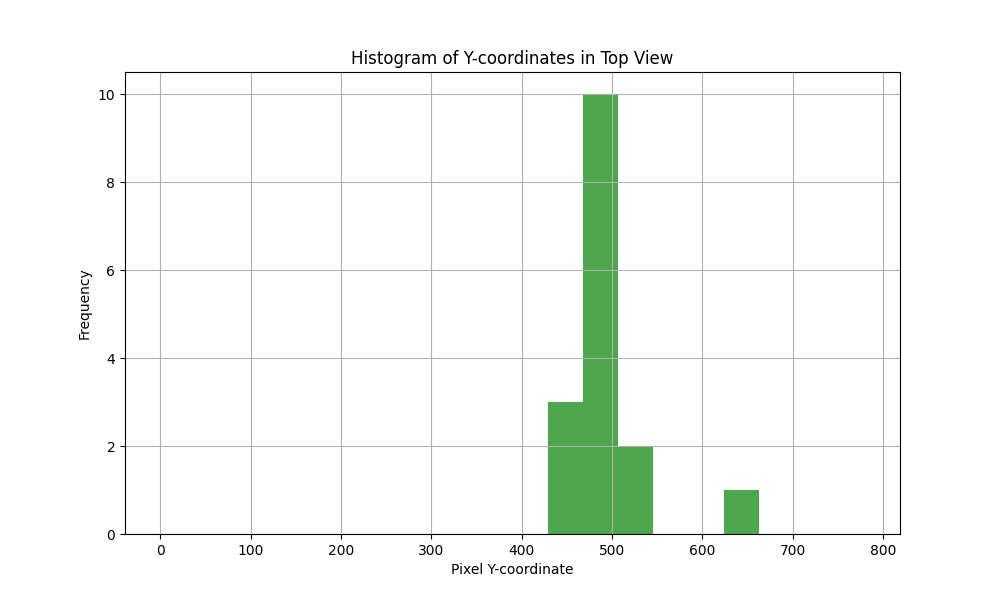
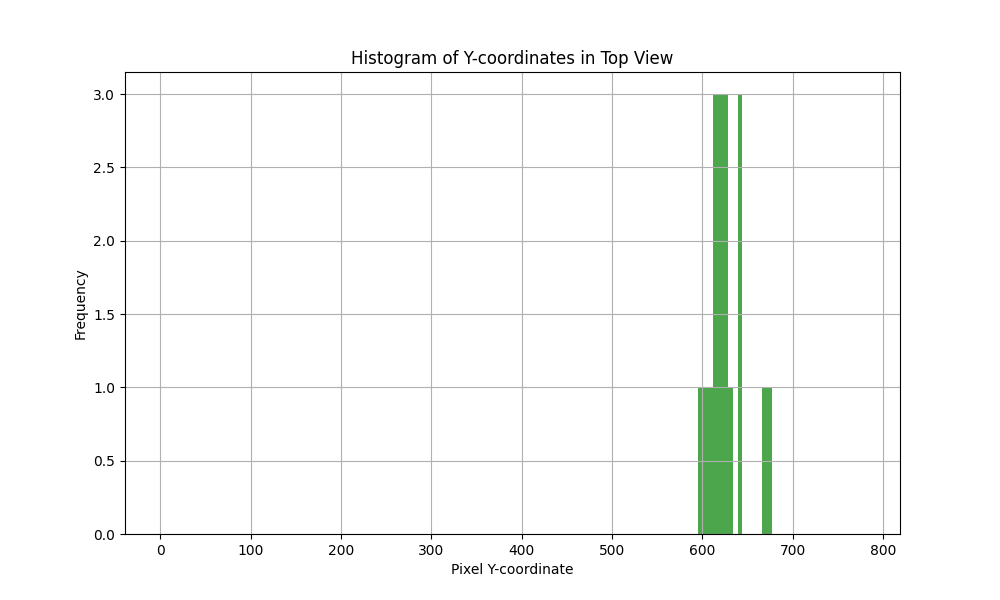
Temp commit 27_06_

diff --git a/src/charmie_storing_groceries/charmie_storing_groceries/storing_groceries_v0.py b/src/charmie_storing_groceries/charmie_storing_groceries/storing_groceries_v0.py
@@ -979,7 +979,7 @@ class StoringGroceriesMain():
 
             print("FILTERED:")
             for o in filtered_objects:
-                # self.node.detected_objects_publisher.publish(o)
+                self.node.detected_objects_publisher.publish(o)
                 # print('---',o)
                 print(o.index, o.object_name, "\t", round(o.position_absolute.x, 2), round(o.position_absolute.y, 2), round(o.position_absolute.z, 2))
 
@@ -1023,9 +1023,9 @@ class StoringGroceriesMain():
                 DETECTED_ALL_LIST_OF_OBJECTS = True
 
         self.set_neck(position=(0,0), wait_for_end_of=False)
-        self.set_speech(filename="generic/found_following_items")
-        for obj in final_objects:
-            self.set_speech(filename="objects_names/"+obj.object_name.replace(" ","_").lower(), wait_for_end_of=True)
+        # self.set_speech(filename="generic/found_following_items")
+        # for obj in final_objects:
+            # self.set_speech(filename="objects_names/"+obj.object_name.replace(" ","_").lower(), wait_for_end_of=True)
             
         return final_objects
 
@@ -1688,29 +1688,11 @@ class StoringGroceriesMain():
         # Real-world dimensions (in meters)
         min_width_meters = -3.0
         max_width_meters = 3.0
-        min_height_meters = -2.0
-        max_height_meters = 2.0
+        min_height_meters = -2.5
+        max_height_meters = 2.5
         min_height_meters_y = 5.0
         max_height_meters_y = 0.0
 
-        # Coordinates to plot (x, y, z)
-        """ coordinates = [
-            ("Banana", -0.24, 1.95, -0.96),
-            ("Cheezit", -0.81, 0.93, -0.66),
-            ("Sugar", 0.29, 1.88, -0.53),
-            ("Strawberry Jello", 0.14, 1.96, -0.52),
-            ("7Up", 0.39, 1.78, 0.35),
-            ("Orange", -0.26, 2.15, -1.0),
-            ("Tomato Soup", 0.39, 1.74, 0.38),
-            ("Pringles", -0.4, 1.92, -0.03),
-            ("Cornflakes", -0.23, 1.91, -0.07),
-            ("Mustard", 0.96, 1.69, -0.32),
-            ("Cheezit", 1.64, 1.84, -0.3),
-            ("Red Wine", 0.19, 1.81, 0.45),
-            ("Tropical Juice", 0.11, 2.02, 0.41),
-            ("Spam", -0.41, 1.94, -0.02)
-        ] """
-        
         coordinates = data
 
         # Function to convert real-world coordinates to image coordinates
@@ -1730,7 +1712,7 @@ class StoringGroceriesMain():
             
             img_x = center_x + (img_x - center_x)
             img_y = center_y - (img_y - center_y)
-            img_z = center_y - (img_z - center_y)
+            img_z = center_y + (img_z - center_y)
             cv2.circle(image, (img_x, img_z), 5, (255, 255, 255), -1)  # Draw white points
             cv2.putText(image, name, (img_x + 5, img_z - 5), cv2.FONT_HERSHEY_SIMPLEX, 0.5, (255, 255, 255), 1)
             y_coordinates_front_view.append(img_x)
@@ -1739,14 +1721,11 @@ class StoringGroceriesMain():
             cv2.putText(image2, name, (img_x + 5, img_y - 5), cv2.FONT_HERSHEY_SIMPLEX, 0.5, (255, 255, 255), 1)
             y_coordinates_top_view.append(img_y)
 
-            
-
-
-        
-        
+ 
         # Plot histogram for front view (y-coordinates)
+        bins = 120
         plt.figure(figsize=(10, 6))
-        plt.hist(y_coordinates_front_view, bins=40, range=(0, width), color='blue', alpha=0.7)
+        plt.hist(y_coordinates_front_view, bins=bins, range=(0, width), color='blue', alpha=0.7) #Com bin de 60 tenho largura do armário a ocupar 9 bins (90 cm / 10)
         plt.title("Histogram of Y-coordinates in Front View")
         plt.xlabel("Pixel Y-coordinate")
         plt.ylabel("Frequency")
@@ -1754,31 +1733,39 @@ class StoringGroceriesMain():
         plt.savefig('histogram_front_view.png')
         plt.close()
 
+        print('Distância entre bins em cm:', width/bins)
+
+        # Calculate the histogram
+        hist, bins = np.histogram(y_coordinates_front_view, bins=120, range=(0, width))
+
+        # Find the index of the bin with the highest frequency
+        max_index = np.argmax(hist)
+
+        # Determine the range of values for the highest peak
+        bin_start = bins[max_index]
+        bin_end = bins[max_index + 1]
+
+        print(f"Range with highest peak in front view histogram: {bin_start} to {bin_end}")
+
         # Plot histogram for top view (y-coordinates)
+        bins = 144
         plt.figure(figsize=(10, 6))
-        plt.hist(y_coordinates_top_view, bins=20, range=(0, height), color='green', alpha=0.7)
+        plt.hist(y_coordinates_top_view, bins=bins, range=(0, height), color='green', alpha=0.7) # 144 bins dá 5cm de diferença entre objetos. Sabendo a profundidade do armário sei quais os objetos que tenho em princípio
         plt.title("Histogram of Y-coordinates in Top View")
         plt.xlabel("Pixel Y-coordinate")
         plt.ylabel("Frequency")
         plt.grid(True)
         plt.savefig('histogram_top_view.png')
         plt.close()
+
+        print('Distância entre bins em cm:', height/bins)
         
         time.sleep(1)
         # Load and display the saved histogram images using OpenCV
         hist_front_view = cv2.imread('histogram_front_view.png')
         hist_top_view = cv2.imread('histogram_top_view.png')
         
-        # Display the image
-        cv2.imshow("Front view of cabinet", image)
-        cv2.waitKey(100)
-        #cv2.destroyAllWindows()
         
-        
-        
-        cv2.imshow("Histogram of Y-coordinates in Front View", hist_front_view)
-        cv2.waitKey(0)
-        cv2.destroyAllWindows()
 
         # Display the image
         cv2.imshow("Top view of cabinet", image2)
@@ -1786,6 +1773,15 @@ class StoringGroceriesMain():
         #cv2.destroyAllWindows()        
 
         cv2.imshow("Histogram of Y-coordinates in Top View", hist_top_view)
+        cv2.waitKey(0)
+        cv2.destroyAllWindows()
+
+        # Display the image
+        cv2.imshow("Front view of cabinet", image)
+        cv2.waitKey(100)
+        #cv2.destroyAllWindows()
+        
+        cv2.imshow("Histogram of Y-coordinates in Front View", hist_front_view)
         cv2.waitKey(0)
         cv2.destroyAllWindows()
 
@@ -1833,7 +1829,7 @@ class StoringGroceriesMain():
                 # tetas = [[-120, -10], [-60, -10], [0, -10], [60, -10], [120, -10]]
                 tetas = [[0, -45], [0, -30], [0, -15], [0, 0]]
                 objects_found = self.search_for_objects(tetas=tetas, delta_t=3.0, use_arm=False, detect_objects=True, detect_shoes=False, detect_doors=False)
-                
+
                 for o in objects_found:
                     
                     print(o.index, o.object_name, "\t", 
@@ -1845,6 +1841,7 @@ class StoringGroceriesMain():
                     z = round(o.position_absolute.z, 2)
                     data.append((name, x, y, z))
                 
+                print('Nr de objetos: ', len(data))
                 # # print(self.node.filtered_objects_storing_groceries)
                 # print('waiting...')
                 # while self.node.flag_storing_groceries_received == False:
@@ -1864,7 +1861,7 @@ class StoringGroceriesMain():
 
                 # self.node.flag_storing_groceries_received = False
                 # self.node.filtered_objects_storing_groceries.clear()
-                print(data)
+                # print('---', data)
                 self.plot_histograms(data)       
                 while True:
                     pass
